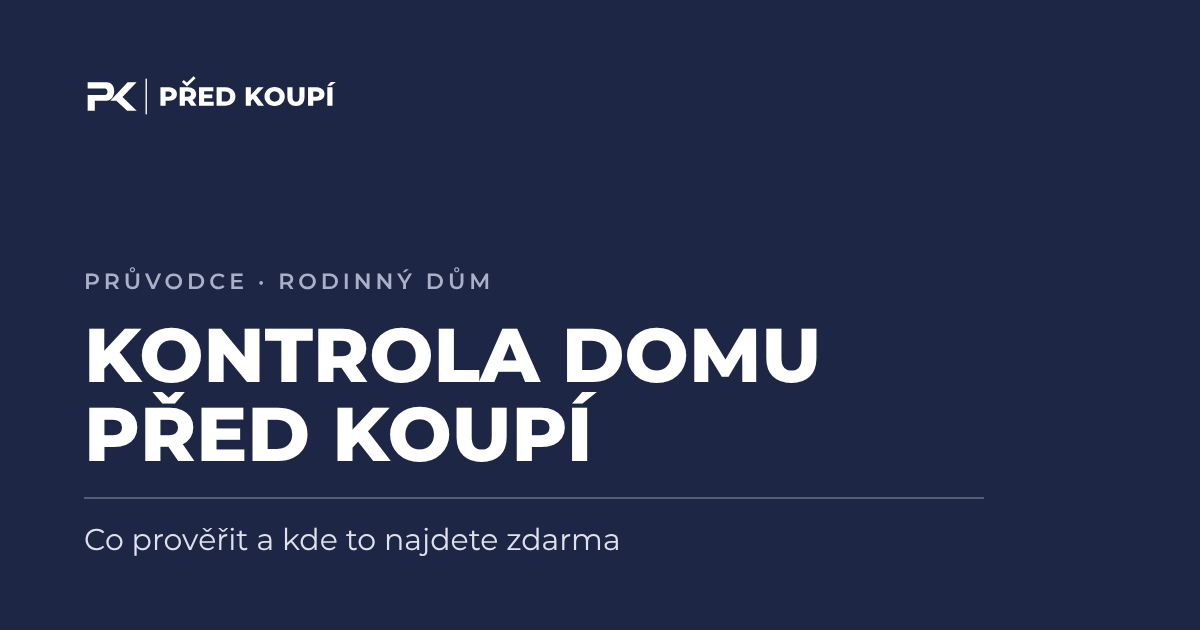
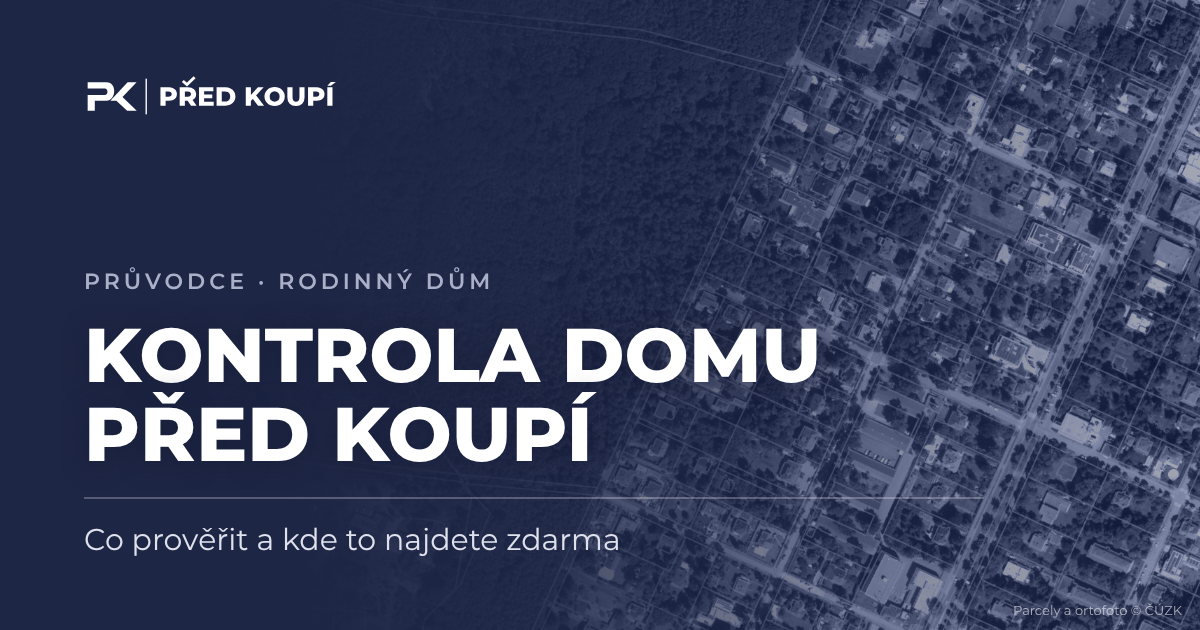
Test: obrázky pro sdílení s mapou k tématu
Claude-Session: https://claude.ai/code/session_015NjKvGcg9fn3wacNz1R3FN

Changed region(s): [[0.4625, 0.0, 1.0, 1.0]]

diff --git a/pruvodce/fond-oprav-svj.html b/pruvodce/fond-oprav-svj.html
@@ -15,7 +15,7 @@
 <meta property="og:description" content="Kde najít účetní závěrky SVJ, jak poznat, že fond oprav nestačí, úvěry a dluhy prodávajícího.">
 <meta property="og:type" content="article">
 <meta property="og:url" content="https://predkoupi.cz/pruvodce/fond-oprav-svj.html">
-<meta property="og:image" content="https://predkoupi.cz/pruvodce/obrazky/fond-oprav-svj.png">
+<meta property="og:image" content="https://predkoupi.cz/pruvodce/obrazky/fond-oprav-svj.png?v=2">
 <meta property="og:image:width" content="1200">
 <meta property="og:image:height" content="630">
 <meta property="og:locale" content="cs_CZ">
@@ -25,7 +25,7 @@
 <link href="https://fonts.googleapis.com/css2?family=Montserrat:wght@300;400;500;600;700;800&display=swap" rel="stylesheet">
 <link rel="stylesheet" href="/styl.css?v=26">
 <script type="application/ld+json">
-{"@context": "https://schema.org", "@graph": [{"@type": "Article", "headline": "Fond oprav SVJ před koupí bytu: co zjistit a kde", "inLanguage": "cs", "datePublished": "2026-11-23", "dateModified": "2026-11-23", "author": {"@type": "Organization", "name": "Před koupí", "url": "https://predkoupi.cz/"}, "publisher": {"@type": "Organization", "name": "Před koupí", "logo": {"@type": "ImageObject", "url": "https://predkoupi.cz/apple-touch-icon.png"}}, "mainEntityOfPage": "https://predkoupi.cz/pruvodce/fond-oprav-svj.html", "image": "https://predkoupi.cz/pruvodce/obrazky/fond-oprav-svj.png"}, {"@type": "BreadcrumbList", "itemListElement": [{"@type": "ListItem", "position": 1, "name": "Před koupí", "item": "https://predkoupi.cz/"}, {"@type": "ListItem", "position": 2, "name": "Průvodce", "item": "https://predkoupi.cz/pruvodce/"}, {"@type": "ListItem", "position": 3, "name": "Fond oprav SVJ před koupí bytu"}]}, {"@type": "FAQPage", "mainEntity": [{"@type": "Question", "name": "Přejdou na mě dluhy prodávajícího vůči SVJ?", "acceptedAnswer": {"@type": "Answer", "text": "Mohou. Podle § 1186 občanského zákoníku přecházejí s bytem na kupujícího dluhy prodávajícího na příspěvcích na správu domu a na službách, pokud je kupující mohl zjistit. Proto si před podpisem vyžádejte potvrzení SVJ o dluzích. Když z něj dluh zjistit nešel nebo SVJ potvrzení bez zbytečného odkladu nevydalo, má se za to, že jste ho zjistit nemohli."}}, {"@type": "Question", "name": "Kolik by mělo být ve fondu oprav?", "acceptedAnswer": {"@type": "Answer", "text": "Zákonné minimum neexistuje. Rozhoduje, jaké opravy dům čekají a kolik budou stát. Porovnejte zůstatek a roční příjem z příspěvků s plánem oprav a s věkem střechy, oken, výtahu a rozvodů. Když velká oprava čeká a peníze chybí, počítejte se zvýšením příspěvků nebo s úvěrem."}}, {"@type": "Question", "name": "Kde najdu účetní závěrku SVJ?", "acceptedAnswer": {"@type": "Answer", "text": "Ve sbírce listin veřejného rejstříku na or.justice.cz, kam společenství zakládá účetní závěrky. Ne všechna SVJ to dělají včas. Pak si závěrku a zprávu o hospodaření vyžádejte od výboru nebo správce."}}]}]}
+{"@context": "https://schema.org", "@graph": [{"@type": "Article", "headline": "Fond oprav SVJ před koupí bytu: co zjistit a kde", "inLanguage": "cs", "datePublished": "2026-11-23", "dateModified": "2026-11-23", "author": {"@type": "Organization", "name": "Před koupí", "url": "https://predkoupi.cz/"}, "publisher": {"@type": "Organization", "name": "Před koupí", "logo": {"@type": "ImageObject", "url": "https://predkoupi.cz/apple-touch-icon.png"}}, "mainEntityOfPage": "https://predkoupi.cz/pruvodce/fond-oprav-svj.html", "image": "https://predkoupi.cz/pruvodce/obrazky/fond-oprav-svj.png?v=2"}, {"@type": "BreadcrumbList", "itemListElement": [{"@type": "ListItem", "position": 1, "name": "Před koupí", "item": "https://predkoupi.cz/"}, {"@type": "ListItem", "position": 2, "name": "Průvodce", "item": "https://predkoupi.cz/pruvodce/"}, {"@type": "ListItem", "position": 3, "name": "Fond oprav SVJ před koupí bytu"}]}, {"@type": "FAQPage", "mainEntity": [{"@type": "Question", "name": "Přejdou na mě dluhy prodávajícího vůči SVJ?", "acceptedAnswer": {"@type": "Answer", "text": "Mohou. Podle § 1186 občanského zákoníku přecházejí s bytem na kupujícího dluhy prodávajícího na příspěvcích na správu domu a na službách, pokud je kupující mohl zjistit. Proto si před podpisem vyžádejte potvrzení SVJ o dluzích. Když z něj dluh zjistit nešel nebo SVJ potvrzení bez zbytečného odkladu nevydalo, má se za to, že jste ho zjistit nemohli."}}, {"@type": "Question", "name": "Kolik by mělo být ve fondu oprav?", "acceptedAnswer": {"@type": "Answer", "text": "Zákonné minimum neexistuje. Rozhoduje, jaké opravy dům čekají a kolik budou stát. Porovnejte zůstatek a roční příjem z příspěvků s plánem oprav a s věkem střechy, oken, výtahu a rozvodů. Když velká oprava čeká a peníze chybí, počítejte se zvýšením příspěvků nebo s úvěrem."}}, {"@type": "Question", "name": "Kde najdu účetní závěrku SVJ?", "acceptedAnswer": {"@type": "Answer", "text": "Ve sbírce listin veřejného rejstříku na or.justice.cz, kam společenství zakládá účetní závěrky. Ne všechna SVJ to dělají včas. Pak si závěrku a zprávu o hospodaření vyžádejte od výboru nebo správce."}}]}]}
 </script>
 </head>
 <body>

diff --git a/pruvodce/zaplavova-uzemi-praha.html b/pruvodce/zaplavova-uzemi-praha.html
@@ -15,7 +15,7 @@
 <meta property="og:description" content="Stoletá voda, aktivní zóna, povodeň 2002, drobné toky a protipovodňová ochrana Prahy. Co ověřit před rezervací.">
 <meta property="og:type" content="article">
 <meta property="og:url" content="https://predkoupi.cz/pruvodce/zaplavova-uzemi-praha.html">
-<meta property="og:image" content="https://predkoupi.cz/pruvodce/obrazky/zaplavova-uzemi.png">
+<meta property="og:image" content="https://predkoupi.cz/pruvodce/obrazky/zaplavova-uzemi.png?v=2">
 <meta property="og:image:width" content="1200">
 <meta property="og:image:height" content="630">
 <meta property="og:locale" content="cs_CZ">
@@ -25,7 +25,7 @@
 <link href="https://fonts.googleapis.com/css2?family=Montserrat:wght@300;400;500;600;700;800&display=swap" rel="stylesheet">
 <link rel="stylesheet" href="/styl.css?v=26">
 <script type="application/ld+json">
-{"@context": "https://schema.org", "@graph": [{"@type": "Article", "headline": "Záplavová území v Praze: jak zjistit riziko povodně před koupí", "inLanguage": "cs", "datePublished": "2026-11-27", "dateModified": "2026-11-27", "author": {"@type": "Organization", "name": "Před koupí", "url": "https://predkoupi.cz/"}, "publisher": {"@type": "Organization", "name": "Před koupí", "logo": {"@type": "ImageObject", "url": "https://predkoupi.cz/apple-touch-icon.png"}}, "mainEntityOfPage": "https://predkoupi.cz/pruvodce/zaplavova-uzemi-praha.html", "image": "https://predkoupi.cz/pruvodce/obrazky/zaplavova-uzemi.png"}, {"@type": "BreadcrumbList", "itemListElement": [{"@type": "ListItem", "position": 1, "name": "Před koupí", "item": "https://predkoupi.cz/"}, {"@type": "ListItem", "position": 2, "name": "Průvodce", "item": "https://predkoupi.cz/pruvodce/"}, {"@type": "ListItem", "position": 3, "name": "Záplavová území v Praze"}]}, {"@type": "FAQPage", "mainEntity": [{"@type": "Question", "name": "Co znamená stoletá voda?", "acceptedAnswer": {"@type": "Answer", "text": "Povodeň, která se v průměru vyskytne jednou za sto let. Neznamená to, že přijde jednou za sto let: každý rok má pravděpodobnost asi 1 %, takže během třicetileté hypotéky asi 26 %. Může přijít i dvakrát za sebou."}}, {"@type": "Question", "name": "Dá se postavit nebo přistavět dům v záplavovém území?", "acceptedAnswer": {"@type": "Answer", "text": "V aktivní zóně záplavového území vodní zákon nové stavby zakazuje, kromě vodních děl a nezbytné infrastruktury; údržba a stavební úpravy jsou možné, pokud nezhorší odtok vody. Ve zbytku záplavového území může vodoprávní úřad stanovit omezující podmínky."}}, {"@type": "Question", "name": "Jak zjistím, jestli dům pojistím proti povodni?", "acceptedAnswer": {"@type": "Answer", "text": "Pojišťovny hodnotí riziko podle povodňových map České asociace pojišťoven, které dělí území do čtyř zón. Před rezervací si u své pojišťovny ověřte zónu konkrétní adresy a cenu pojištění; v nejrizikovějších místech může být pojištění drahé nebo ho pojišťovna odmítne."}}]}]}
+{"@context": "https://schema.org", "@graph": [{"@type": "Article", "headline": "Záplavová území v Praze: jak zjistit riziko povodně před koupí", "inLanguage": "cs", "datePublished": "2026-11-27", "dateModified": "2026-11-27", "author": {"@type": "Organization", "name": "Před koupí", "url": "https://predkoupi.cz/"}, "publisher": {"@type": "Organization", "name": "Před koupí", "logo": {"@type": "ImageObject", "url": "https://predkoupi.cz/apple-touch-icon.png"}}, "mainEntityOfPage": "https://predkoupi.cz/pruvodce/zaplavova-uzemi-praha.html", "image": "https://predkoupi.cz/pruvodce/obrazky/zaplavova-uzemi.png?v=2"}, {"@type": "BreadcrumbList", "itemListElement": [{"@type": "ListItem", "position": 1, "name": "Před koupí", "item": "https://predkoupi.cz/"}, {"@type": "ListItem", "position": 2, "name": "Průvodce", "item": "https://predkoupi.cz/pruvodce/"}, {"@type": "ListItem", "position": 3, "name": "Záplavová území v Praze"}]}, {"@type": "FAQPage", "mainEntity": [{"@type": "Question", "name": "Co znamená stoletá voda?", "acceptedAnswer": {"@type": "Answer", "text": "Povodeň, která se v průměru vyskytne jednou za sto let. Neznamená to, že přijde jednou za sto let: každý rok má pravděpodobnost asi 1 %, takže během třicetileté hypotéky asi 26 %. Může přijít i dvakrát za sebou."}}, {"@type": "Question", "name": "Dá se postavit nebo přistavět dům v záplavovém území?", "acceptedAnswer": {"@type": "Answer", "text": "V aktivní zóně záplavového území vodní zákon nové stavby zakazuje, kromě vodních děl a nezbytné infrastruktury; údržba a stavební úpravy jsou možné, pokud nezhorší odtok vody. Ve zbytku záplavového území může vodoprávní úřad stanovit omezující podmínky."}}, {"@type": "Question", "name": "Jak zjistím, jestli dům pojistím proti povodni?", "acceptedAnswer": {"@type": "Answer", "text": "Pojišťovny hodnotí riziko podle povodňových map České asociace pojišťoven, které dělí území do čtyř zón. Před rezervací si u své pojišťovny ověřte zónu konkrétní adresy a cenu pojištění; v nejrizikovějších místech může být pojištění drahé nebo ho pojišťovna odmítne."}}]}]}
 </script>
 </head>
 <body>

diff --git a/pruvodce/hlukova-mapa-praha.html b/pruvodce/hlukova-mapa-praha.html
@@ -15,7 +15,7 @@
 <meta property="og:description" content="Celodenní průměr a noc, doporučení WHO a limity, proč mapa není měření v ložnici a co ověřit při prohlídce.">
 <meta property="og:type" content="article">
 <meta property="og:url" content="https://predkoupi.cz/pruvodce/hlukova-mapa-praha.html">
-<meta property="og:image" content="https://predkoupi.cz/pruvodce/obrazky/hlukova-mapa.png">
+<meta property="og:image" content="https://predkoupi.cz/pruvodce/obrazky/hlukova-mapa.png?v=2">
 <meta property="og:image:width" content="1200">
 <meta property="og:image:height" content="630">
 <meta property="og:locale" content="cs_CZ">
@@ -25,7 +25,7 @@
 <link href="https://fonts.googleapis.com/css2?family=Montserrat:wght@300;400;500;600;700;800&display=swap" rel="stylesheet">
 <link rel="stylesheet" href="/styl.css?v=26">
 <script type="application/ld+json">
-{"@context": "https://schema.org", "@graph": [{"@type": "Article", "headline": "Hlukové mapy Prahy: jak zjistit hluk u bytu před koupí", "inLanguage": "cs", "datePublished": "2026-11-25", "dateModified": "2026-11-25", "author": {"@type": "Organization", "name": "Před koupí", "url": "https://predkoupi.cz/"}, "publisher": {"@type": "Organization", "name": "Před koupí", "logo": {"@type": "ImageObject", "url": "https://predkoupi.cz/apple-touch-icon.png"}}, "mainEntityOfPage": "https://predkoupi.cz/pruvodce/hlukova-mapa-praha.html", "image": "https://predkoupi.cz/pruvodce/obrazky/hlukova-mapa.png"}, {"@type": "BreadcrumbList", "itemListElement": [{"@type": "ListItem", "position": 1, "name": "Před koupí", "item": "https://predkoupi.cz/"}, {"@type": "ListItem", "position": 2, "name": "Průvodce", "item": "https://predkoupi.cz/pruvodce/"}, {"@type": "ListItem", "position": 3, "name": "Hlukové mapy Prahy"}]}, {"@type": "FAQPage", "mainEntity": [{"@type": "Question", "name": "Je hluk z hlukové mapy totéž, co uslyším v ložnici?", "acceptedAnswer": {"@type": "Answer", "text": "Ne. Mapa je výpočtový model pro výšku 4 m nad terénem u nejvíce zatížené fasády. V ložnici do dvora nebo ve vyšším patře může být výrazně tišeji, u okna do rušné ulice naopak hlučněji. Rozhoduje, kam míří okna ložnic a jak dobře těsní."}}, {"@type": "Question", "name": "Kolik decibelů je ještě v pořádku?", "acceptedAnswer": {"@type": "Answer", "text": "Světová zdravotnická organizace (WHO) doporučuje u silniční dopravy celodenní průměr pod 53 dB a v noci pod 45 dB, u železnice pod 54 dB a v noci pod 44 dB. Ve městě to splní málokterá ulice. Užitečné je proto hlavně srovnání: 55–60 dB je běžná městská ulice, nad 65 dB hlučná hlavní ulice."}}, {"@type": "Question", "name": "Kde hlukovou mapu Prahy najdu?", "acceptedAnswer": {"@type": "Answer", "text": "Na mapovém portálu hlavního města (Geoportál Praha, téma hluk) a na portálu strategických hlukových map Ministerstva zdravotnictví. Obě ukazují výsledky strategického hlukového mapování 2022."}}]}]}
+{"@context": "https://schema.org", "@graph": [{"@type": "Article", "headline": "Hlukové mapy Prahy: jak zjistit hluk u bytu před koupí", "inLanguage": "cs", "datePublished": "2026-11-25", "dateModified": "2026-11-25", "author": {"@type": "Organization", "name": "Před koupí", "url": "https://predkoupi.cz/"}, "publisher": {"@type": "Organization", "name": "Před koupí", "logo": {"@type": "ImageObject", "url": "https://predkoupi.cz/apple-touch-icon.png"}}, "mainEntityOfPage": "https://predkoupi.cz/pruvodce/hlukova-mapa-praha.html", "image": "https://predkoupi.cz/pruvodce/obrazky/hlukova-mapa.png?v=2"}, {"@type": "BreadcrumbList", "itemListElement": [{"@type": "ListItem", "position": 1, "name": "Před koupí", "item": "https://predkoupi.cz/"}, {"@type": "ListItem", "position": 2, "name": "Průvodce", "item": "https://predkoupi.cz/pruvodce/"}, {"@type": "ListItem", "position": 3, "name": "Hlukové mapy Prahy"}]}, {"@type": "FAQPage", "mainEntity": [{"@type": "Question", "name": "Je hluk z hlukové mapy totéž, co uslyším v ložnici?", "acceptedAnswer": {"@type": "Answer", "text": "Ne. Mapa je výpočtový model pro výšku 4 m nad terénem u nejvíce zatížené fasády. V ložnici do dvora nebo ve vyšším patře může být výrazně tišeji, u okna do rušné ulice naopak hlučněji. Rozhoduje, kam míří okna ložnic a jak dobře těsní."}}, {"@type": "Question", "name": "Kolik decibelů je ještě v pořádku?", "acceptedAnswer": {"@type": "Answer", "text": "Světová zdravotnická organizace (WHO) doporučuje u silniční dopravy celodenní průměr pod 53 dB a v noci pod 45 dB, u železnice pod 54 dB a v noci pod 44 dB. Ve městě to splní málokterá ulice. Užitečné je proto hlavně srovnání: 55–60 dB je běžná městská ulice, nad 65 dB hlučná hlavní ulice."}}, {"@type": "Question", "name": "Kde hlukovou mapu Prahy najdu?", "acceptedAnswer": {"@type": "Answer", "text": "Na mapovém portálu hlavního města (Geoportál Praha, téma hluk) a na portálu strategických hlukových map Ministerstva zdravotnictví. Obě ukazují výsledky strategického hlukového mapování 2022."}}]}]}
 </script>
 </head>
 <body>

diff --git a/pruvodce/vypis-z-katastru-jak-cist.html b/pruvodce/vypis-z-katastru-jak-cist.html
@@ -15,7 +15,7 @@
 <meta property="og:description" content="Co znamenají oddíly A až F na listu vlastnictví, co je plomba a co z výpisu nepoznáte.">
 <meta property="og:type" content="article">
 <meta property="og:url" content="https://predkoupi.cz/pruvodce/vypis-z-katastru-jak-cist.html">
-<meta property="og:image" content="https://predkoupi.cz/pruvodce/obrazky/vypis-z-katastru.png">
+<meta property="og:image" content="https://predkoupi.cz/pruvodce/obrazky/vypis-z-katastru.png?v=2">
 <meta property="og:image:width" content="1200">
 <meta property="og:image:height" content="630">
 <meta property="og:locale" content="cs_CZ">
@@ -25,7 +25,7 @@
 <link href="https://fonts.googleapis.com/css2?family=Montserrat:wght@300;400;500;600;700;800&display=swap" rel="stylesheet">
 <link rel="stylesheet" href="/styl.css?v=26">
 <script type="application/ld+json">
-{"@context": "https://schema.org", "@graph": [{"@type": "Article", "headline": "Jak číst výpis z katastru: list vlastnictví oddíl po oddílu", "inLanguage": "cs", "datePublished": "2026-11-21", "dateModified": "2026-11-21", "author": {"@type": "Organization", "name": "Před koupí", "url": "https://predkoupi.cz/"}, "publisher": {"@type": "Organization", "name": "Před koupí", "logo": {"@type": "ImageObject", "url": "https://predkoupi.cz/apple-touch-icon.png"}}, "mainEntityOfPage": "https://predkoupi.cz/pruvodce/vypis-z-katastru-jak-cist.html", "image": "https://predkoupi.cz/pruvodce/obrazky/vypis-z-katastru.png"}, {"@type": "BreadcrumbList", "itemListElement": [{"@type": "ListItem", "position": 1, "name": "Před koupí", "item": "https://predkoupi.cz/"}, {"@type": "ListItem", "position": 2, "name": "Průvodce", "item": "https://predkoupi.cz/pruvodce/"}, {"@type": "ListItem", "position": 3, "name": "Jak číst výpis z katastru"}]}, {"@type": "FAQPage", "mainEntity": [{"@type": "Question", "name": "Kde získám výpis z katastru a kolik stojí?", "acceptedAnswer": {"@type": "Answer", "text": "Na kontaktním místě Czech POINT (pošta, obecní úřad), na katastrálním pracovišti nebo dálkovým přístupem ČÚZK. Na Czech POINT stojí první strana nejvýš 100 Kč a každá další nejvýš 50 Kč. Zdarma je jen Nahlížení do katastru, které ale úřední výpis nenahradí."}}, {"@type": "Question", "name": "Co znamená písmeno P u nemovitosti na výpisu?", "acceptedAnswer": {"@type": "Answer", "text": "Plombu. Nemovitost je dotčena změnou právních vztahů, o které katastr právě rozhoduje, třeba jiným prodejem nebo zápisem zástavy. Číslo řízení najdete v oddílu D. S plombou nepodepisujte, dokud nevíte, o jaké řízení jde."}}, {"@type": "Question", "name": "Stačí výpis z katastru k prověření nemovitosti?", "acceptedAnswer": {"@type": "Answer", "text": "Nestačí. Výpis ukáže vlastníka a zápisy u nemovitosti, ale ne exekuce a insolvenci prodávajícího, které ještě nejsou zapsané, dluhy vůči SVJ, technický stav, územní plán, hluk ani povodně."}}]}]}
+{"@context": "https://schema.org", "@graph": [{"@type": "Article", "headline": "Jak číst výpis z katastru: list vlastnictví oddíl po oddílu", "inLanguage": "cs", "datePublished": "2026-11-21", "dateModified": "2026-11-21", "author": {"@type": "Organization", "name": "Před koupí", "url": "https://predkoupi.cz/"}, "publisher": {"@type": "Organization", "name": "Před koupí", "logo": {"@type": "ImageObject", "url": "https://predkoupi.cz/apple-touch-icon.png"}}, "mainEntityOfPage": "https://predkoupi.cz/pruvodce/vypis-z-katastru-jak-cist.html", "image": "https://predkoupi.cz/pruvodce/obrazky/vypis-z-katastru.png?v=2"}, {"@type": "BreadcrumbList", "itemListElement": [{"@type": "ListItem", "position": 1, "name": "Před koupí", "item": "https://predkoupi.cz/"}, {"@type": "ListItem", "position": 2, "name": "Průvodce", "item": "https://predkoupi.cz/pruvodce/"}, {"@type": "ListItem", "position": 3, "name": "Jak číst výpis z katastru"}]}, {"@type": "FAQPage", "mainEntity": [{"@type": "Question", "name": "Kde získám výpis z katastru a kolik stojí?", "acceptedAnswer": {"@type": "Answer", "text": "Na kontaktním místě Czech POINT (pošta, obecní úřad), na katastrálním pracovišti nebo dálkovým přístupem ČÚZK. Na Czech POINT stojí první strana nejvýš 100 Kč a každá další nejvýš 50 Kč. Zdarma je jen Nahlížení do katastru, které ale úřední výpis nenahradí."}}, {"@type": "Question", "name": "Co znamená písmeno P u nemovitosti na výpisu?", "acceptedAnswer": {"@type": "Answer", "text": "Plombu. Nemovitost je dotčena změnou právních vztahů, o které katastr právě rozhoduje, třeba jiným prodejem nebo zápisem zástavy. Číslo řízení najdete v oddílu D. S plombou nepodepisujte, dokud nevíte, o jaké řízení jde."}}, {"@type": "Question", "name": "Stačí výpis z katastru k prověření nemovitosti?", "acceptedAnswer": {"@type": "Answer", "text": "Nestačí. Výpis ukáže vlastníka a zápisy u nemovitosti, ale ne exekuce a insolvenci prodávajícího, které ještě nejsou zapsané, dluhy vůči SVJ, technický stav, územní plán, hluk ani povodně."}}]}]}
 </script>
 </head>
 <body>

diff --git a/pruvodce/vecne-bremeno-pri-koupi.html b/pruvodce/vecne-bremeno-pri-koupi.html
@@ -15,7 +15,7 @@
 <meta property="og:description" content="Jaká věcná břemena přecházejí na kupujícího, kde je najdete v katastru a jak se ruší.">
 <meta property="og:type" content="article">
 <meta property="og:url" content="https://predkoupi.cz/pruvodce/vecne-bremeno-pri-koupi.html">
-<meta property="og:image" content="https://predkoupi.cz/pruvodce/obrazky/vecne-bremeno.png">
+<meta property="og:image" content="https://predkoupi.cz/pruvodce/obrazky/vecne-bremeno.png?v=2">
 <meta property="og:image:width" content="1200">
 <meta property="og:image:height" content="630">
 <meta property="og:locale" content="cs_CZ">
@@ -25,7 +25,7 @@
 <link href="https://fonts.googleapis.com/css2?family=Montserrat:wght@300;400;500;600;700;800&display=swap" rel="stylesheet">
 <link rel="stylesheet" href="/styl.css?v=26">
 <script type="application/ld+json">
-{"@context": "https://schema.org", "@graph": [{"@type": "Article", "headline": "Věcné břemeno při koupi nemovitosti: co přechází na vás a jak se ruší", "inLanguage": "cs", "datePublished": "2026-11-19", "dateModified": "2026-11-19", "author": {"@type": "Organization", "name": "Před koupí", "url": "https://predkoupi.cz/"}, "publisher": {"@type": "Organization", "name": "Před koupí", "logo": {"@type": "ImageObject", "url": "https://predkoupi.cz/apple-touch-icon.png"}}, "mainEntityOfPage": "https://predkoupi.cz/pruvodce/vecne-bremeno-pri-koupi.html", "image": "https://predkoupi.cz/pruvodce/obrazky/vecne-bremeno.png"}, {"@type": "BreadcrumbList", "itemListElement": [{"@type": "ListItem", "position": 1, "name": "Před koupí", "item": "https://predkoupi.cz/"}, {"@type": "ListItem", "position": 2, "name": "Průvodce", "item": "https://predkoupi.cz/pruvodce/"}, {"@type": "ListItem", "position": 3, "name": "Věcné břemeno při koupi"}]}, {"@type": "FAQPage", "mainEntity": [{"@type": "Question", "name": "Přejde věcné břemeno na mě, když nemovitost koupím?", "acceptedAnswer": {"@type": "Answer", "text": "Ano. Kdo nabude vlastnictví, přejímá závady zapsané v katastru (§ 1107 občanského zákoníku). Věcné břemeno zapsané na listu vlastnictví tedy platí dál i vůči vám a prodejem nezaniká."}}, {"@type": "Question", "name": "Může prodávající věcné břemeno zrušit sám?", "acceptedAnswer": {"@type": "Answer", "text": "Ne. Zrušení potřebuje dohodu s tím, komu břemeno slouží, a výmaz z katastru. Výjimkou je osobní služebnost, například doživotní užívání: zanikne smrtí oprávněné osoby, z katastru se ale stejně musí vymazat."}}, {"@type": "Question", "name": "Snižuje věcné břemeno cenu nemovitosti?", "acceptedAnswer": {"@type": "Answer", "text": "Záleží na druhu. Vodovod na okraji zahrady cenu ovlivní málo, doživotní právo užívání pro jinou osobu zásadně: dokud oprávněná osoba žije, nemovitost sami užívat nemůžete. O ceně jednejte až podle obsahu listiny, ne podle samotného zápisu."}}]}]}
+{"@context": "https://schema.org", "@graph": [{"@type": "Article", "headline": "Věcné břemeno při koupi nemovitosti: co přechází na vás a jak se ruší", "inLanguage": "cs", "datePublished": "2026-11-19", "dateModified": "2026-11-19", "author": {"@type": "Organization", "name": "Před koupí", "url": "https://predkoupi.cz/"}, "publisher": {"@type": "Organization", "name": "Před koupí", "logo": {"@type": "ImageObject", "url": "https://predkoupi.cz/apple-touch-icon.png"}}, "mainEntityOfPage": "https://predkoupi.cz/pruvodce/vecne-bremeno-pri-koupi.html", "image": "https://predkoupi.cz/pruvodce/obrazky/vecne-bremeno.png?v=2"}, {"@type": "BreadcrumbList", "itemListElement": [{"@type": "ListItem", "position": 1, "name": "Před koupí", "item": "https://predkoupi.cz/"}, {"@type": "ListItem", "position": 2, "name": "Průvodce", "item": "https://predkoupi.cz/pruvodce/"}, {"@type": "ListItem", "position": 3, "name": "Věcné břemeno při koupi"}]}, {"@type": "FAQPage", "mainEntity": [{"@type": "Question", "name": "Přejde věcné břemeno na mě, když nemovitost koupím?", "acceptedAnswer": {"@type": "Answer", "text": "Ano. Kdo nabude vlastnictví, přejímá závady zapsané v katastru (§ 1107 občanského zákoníku). Věcné břemeno zapsané na listu vlastnictví tedy platí dál i vůči vám a prodejem nezaniká."}}, {"@type": "Question", "name": "Může prodávající věcné břemeno zrušit sám?", "acceptedAnswer": {"@type": "Answer", "text": "Ne. Zrušení potřebuje dohodu s tím, komu břemeno slouží, a výmaz z katastru. Výjimkou je osobní služebnost, například doživotní užívání: zanikne smrtí oprávněné osoby, z katastru se ale stejně musí vymazat."}}, {"@type": "Question", "name": "Snižuje věcné břemeno cenu nemovitosti?", "acceptedAnswer": {"@type": "Answer", "text": "Záleží na druhu. Vodovod na okraji zahrady cenu ovlivní málo, doživotní právo užívání pro jinou osobu zásadně: dokud oprávněná osoba žije, nemovitost sami užívat nemůžete. O ceně jednejte až podle obsahu listiny, ne podle samotného zápisu."}}]}]}
 </script>
 </head>
 <body>

diff --git a/pruvodce/kontrola-domu-pred-koupi.html b/pruvodce/kontrola-domu-pred-koupi.html
@@ -15,7 +15,7 @@
 <meta property="og:description" content="Parcely a přístup, nezapsané stavby, technický stav, územní plán, povodně, radon, hluk a cena – krok za krokem.">
 <meta property="og:type" content="article">
 <meta property="og:url" content="https://predkoupi.cz/pruvodce/kontrola-domu-pred-koupi.html">
-<meta property="og:image" content="https://predkoupi.cz/pruvodce/obrazky/kontrola-domu.png">
+<meta property="og:image" content="https://predkoupi.cz/pruvodce/obrazky/kontrola-domu.png?v=2">
 <meta property="og:image:width" content="1200">
 <meta property="og:image:height" content="630">
 <meta property="og:locale" content="cs_CZ">
@@ -25,7 +25,7 @@
 <link href="https://fonts.googleapis.com/css2?family=Montserrat:wght@300;400;500;600;700;800&display=swap" rel="stylesheet">
 <link rel="stylesheet" href="/styl.css?v=26">
 <script type="application/ld+json">
-{"@context": "https://schema.org", "@graph": [{"@type": "Article", "headline": "Kontrola rodinného domu před koupí: co prověřit a kde to najdete", "inLanguage": "cs", "datePublished": "2026-11-18", "dateModified": "2026-11-18", "author": {"@type": "Organization", "name": "Před koupí", "url": "https://predkoupi.cz/"}, "publisher": {"@type": "Organization", "name": "Před koupí", "logo": {"@type": "ImageObject", "url": "https://predkoupi.cz/apple-touch-icon.png"}}, "mainEntityOfPage": "https://predkoupi.cz/pruvodce/kontrola-domu-pred-koupi.html", "image": "https://predkoupi.cz/pruvodce/obrazky/kontrola-domu.png"}, {"@type": "BreadcrumbList", "itemListElement": [{"@type": "ListItem", "position": 1, "name": "Před koupí", "item": "https://predkoupi.cz/"}, {"@type": "ListItem", "position": 2, "name": "Průvodce", "item": "https://predkoupi.cz/pruvodce/"}, {"@type": "ListItem", "position": 3, "name": "Kontrola rodinného domu před koupí"}]}, {"@type": "FAQPage", "mainEntity": [{"@type": "Question", "name": "Potřebuji při koupi domu technika?", "acceptedAnswer": {"@type": "Answer", "text": "U staršího domu ano. Prověrka z dat řekne, na co se zaměřit (stáří domu, sítě, vlhké podloží u záplavového území, radon), ale stav střechy, statiky, vlhkosti a rozvodů posoudí jen prohlídka na místě."}}, {"@type": "Question", "name": "Jak poznám nezapsanou stavbu?", "acceptedAnswer": {"@type": "Answer", "text": "Porovnejte letecký snímek a skutečnost s katastrální mapou. Garáž, přístavba nebo kůlna, která v mapě chybí, může být postavená bez povolení. Zeptejte se prodávajícího na kolaudaci nebo povolení."}}, {"@type": "Question", "name": "Musí prodávající předložit průkaz energetické náročnosti?", "acceptedAnswer": {"@type": "Answer", "text": "Ano. Při prodeji domu musí prodávající předložit průkaz energetické náročnosti budovy (PENB) a jeho třídu uvádět i v inzerátu."}}]}]}
+{"@context": "https://schema.org", "@graph": [{"@type": "Article", "headline": "Kontrola rodinného domu před koupí: co prověřit a kde to najdete", "inLanguage": "cs", "datePublished": "2026-11-18", "dateModified": "2026-11-18", "author": {"@type": "Organization", "name": "Před koupí", "url": "https://predkoupi.cz/"}, "publisher": {"@type": "Organization", "name": "Před koupí", "logo": {"@type": "ImageObject", "url": "https://predkoupi.cz/apple-touch-icon.png"}}, "mainEntityOfPage": "https://predkoupi.cz/pruvodce/kontrola-domu-pred-koupi.html", "image": "https://predkoupi.cz/pruvodce/obrazky/kontrola-domu.png?v=2"}, {"@type": "BreadcrumbList", "itemListElement": [{"@type": "ListItem", "position": 1, "name": "Před koupí", "item": "https://predkoupi.cz/"}, {"@type": "ListItem", "position": 2, "name": "Průvodce", "item": "https://predkoupi.cz/pruvodce/"}, {"@type": "ListItem", "position": 3, "name": "Kontrola rodinného domu před koupí"}]}, {"@type": "FAQPage", "mainEntity": [{"@type": "Question", "name": "Potřebuji při koupi domu technika?", "acceptedAnswer": {"@type": "Answer", "text": "U staršího domu ano. Prověrka z dat řekne, na co se zaměřit (stáří domu, sítě, vlhké podloží u záplavového území, radon), ale stav střechy, statiky, vlhkosti a rozvodů posoudí jen prohlídka na místě."}}, {"@type": "Question", "name": "Jak poznám nezapsanou stavbu?", "acceptedAnswer": {"@type": "Answer", "text": "Porovnejte letecký snímek a skutečnost s katastrální mapou. Garáž, přístavba nebo kůlna, která v mapě chybí, může být postavená bez povolení. Zeptejte se prodávajícího na kolaudaci nebo povolení."}}, {"@type": "Question", "name": "Musí prodávající předložit průkaz energetické náročnosti?", "acceptedAnswer": {"@type": "Answer", "text": "Ano. Při prodeji domu musí prodávající předložit průkaz energetické náročnosti budovy (PENB) a jeho třídu uvádět i v inzerátu."}}]}]}
 </script>
 </head>
 <body>

diff --git a/pruvodce/kontrola-bytu-pred-koupi.html b/pruvodce/kontrola-bytu-pred-koupi.html
@@ -15,7 +15,7 @@
 <meta property="og:description" content="Výpis z katastru, prodávající, SVJ, územní plán, hluk, povodně a cena – krok za krokem a s odkazy na bezplatné zdroje.">
 <meta property="og:type" content="article">
 <meta property="og:url" content="https://predkoupi.cz/pruvodce/kontrola-bytu-pred-koupi.html">
-<meta property="og:image" content="https://predkoupi.cz/pruvodce/obrazky/kontrola-bytu.png">
+<meta property="og:image" content="https://predkoupi.cz/pruvodce/obrazky/kontrola-bytu.png?v=2">
 <meta property="og:image:width" content="1200">
 <meta property="og:image:height" content="630">
 <meta property="og:locale" content="cs_CZ">
@@ -29,7 +29,7 @@
  {"@type":"Article","headline":"Kontrola bytu před koupí: co prověřit a kde to najdete","inLanguage":"cs","datePublished":"2026-11-18","dateModified":"2026-11-18",
   "author":{"@type":"Organization","name":"Před koupí","url":"https://predkoupi.cz/"},
   "publisher":{"@type":"Organization","name":"Před koupí","logo":{"@type":"ImageObject","url":"https://predkoupi.cz/apple-touch-icon.png"}},
-  "mainEntityOfPage":"https://predkoupi.cz/pruvodce/kontrola-bytu-pred-koupi.html","image": "https://predkoupi.cz/pruvodce/obrazky/kontrola-bytu.png"},
+  "mainEntityOfPage":"https://predkoupi.cz/pruvodce/kontrola-bytu-pred-koupi.html","image": "https://predkoupi.cz/pruvodce/obrazky/kontrola-bytu.png?v=2"},
  {"@type":"BreadcrumbList","itemListElement":[
   {"@type":"ListItem","position":1,"name":"Před koupí","item":"https://predkoupi.cz/"},
   {"@type":"ListItem","position":2,"name":"Průvodce","item":"https://predkoupi.cz/pruvodce/"},
